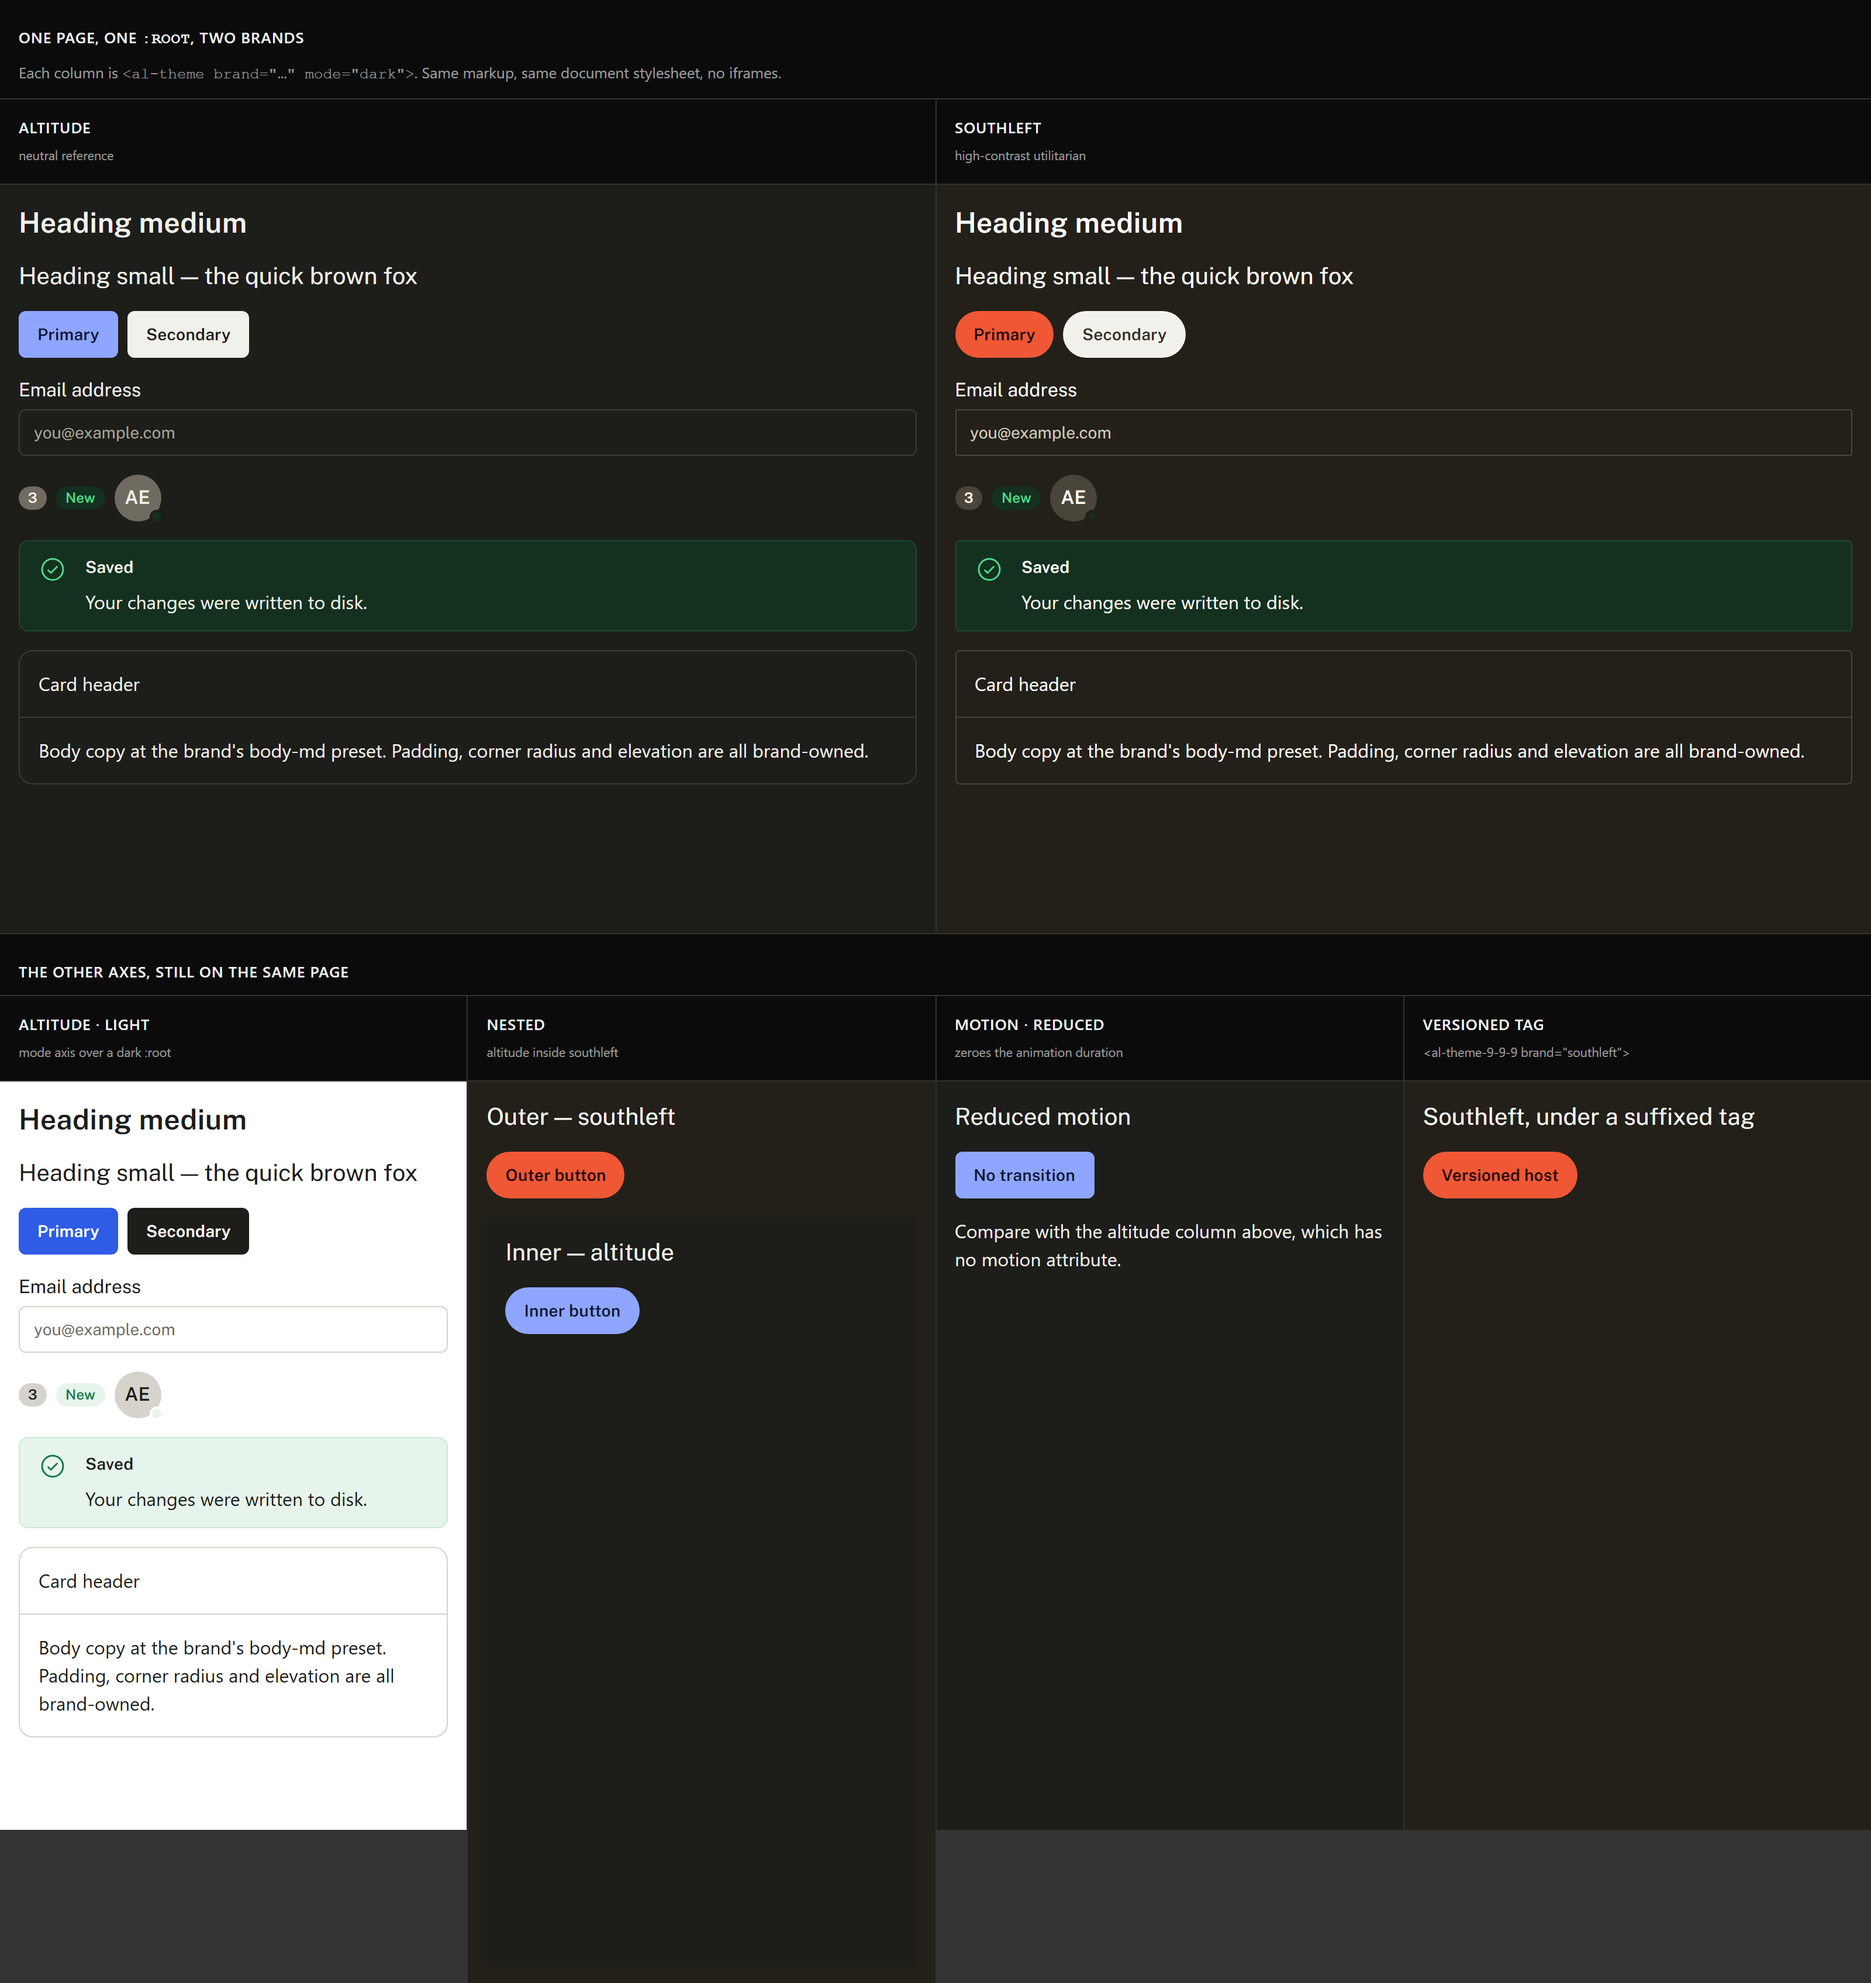
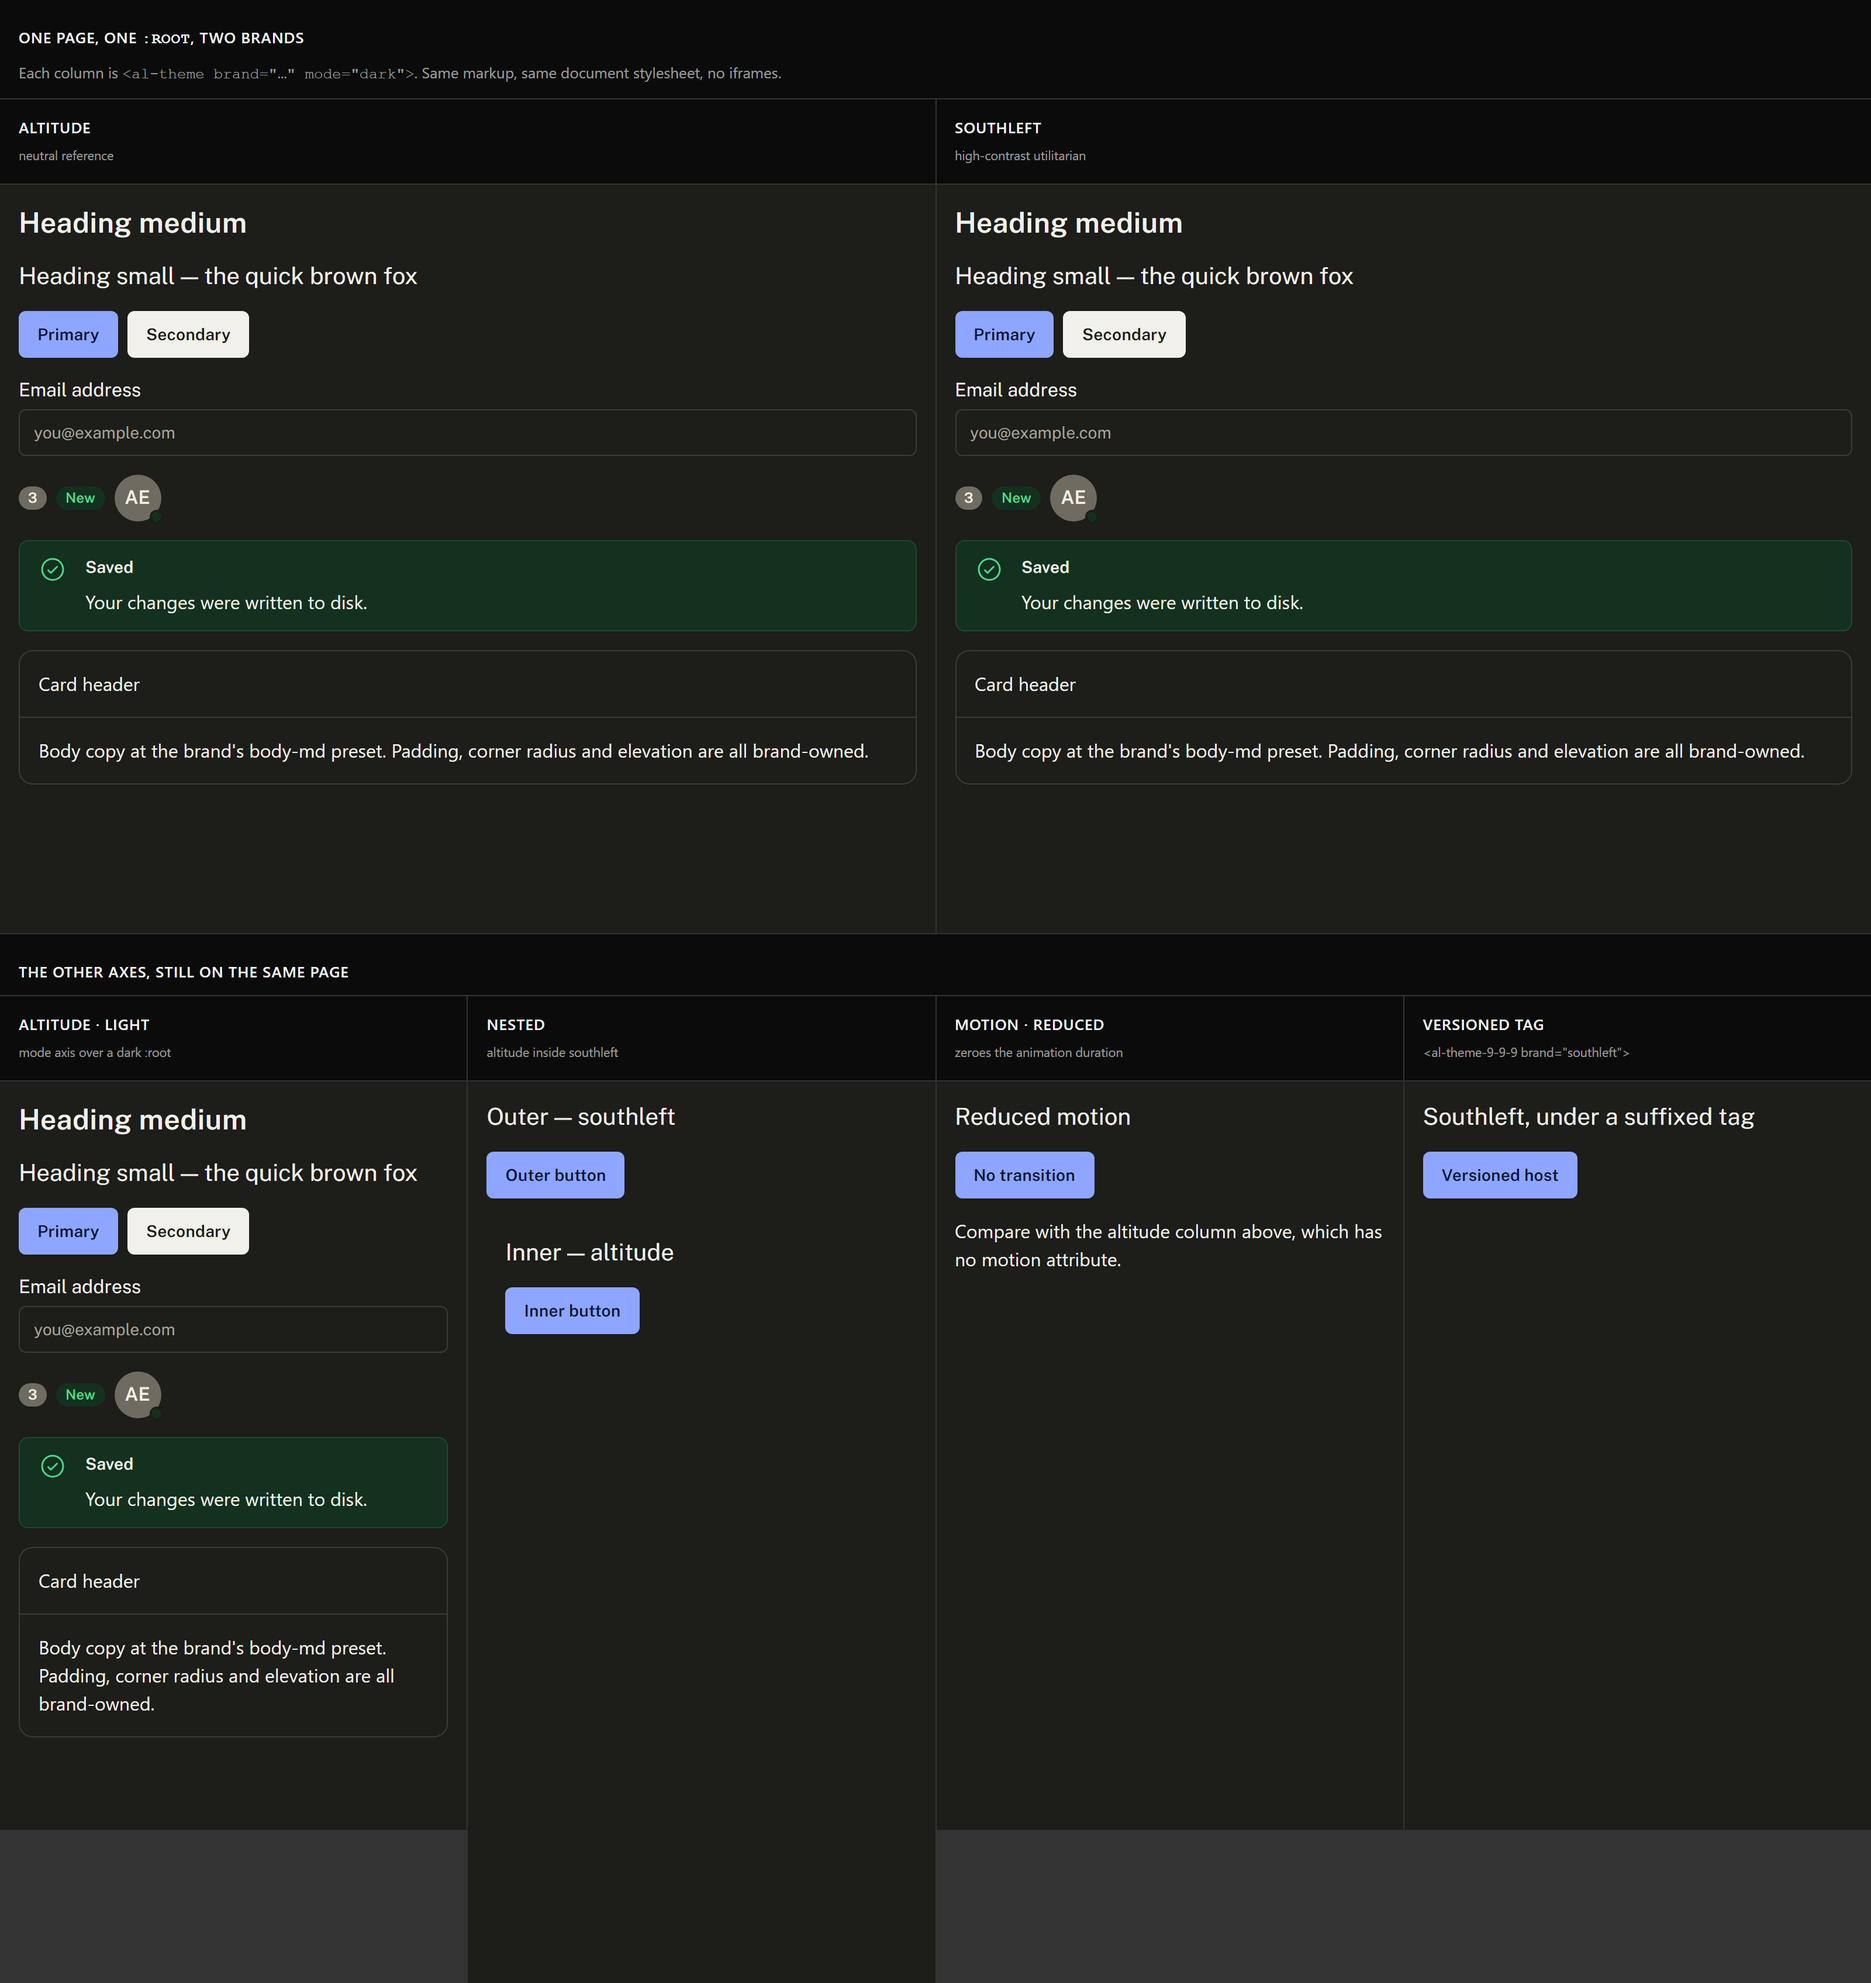
WIP feat(theming): take the palette out of al-theme; migrate southleft off brand
NOT MERGEABLE YET. Two build-tier gates fail by design (they are about the
brand axis) and eight apps still need their bundle. Committed so the
proven part is not lost.

DONE AND VERIFIED IN A BROWSER

al-theme no longer carries a palette. It used to @use the generated
:host([brand]) / :host([mode]) partials, which put a design system's
colour, type and radius INSIDE the component — so a page could load a
system's own bundle and still render the default system, because
:host([mode='dark']) sat on the element and beat :root for everything
below it. That is exactly what my earlier probe measured: primary-400
instead of primary-500, IBM Plex instead of Public Sans.

`brand` is gone from the component. `mode` stays and is mirrored onto the
host as `data-al-mode` for the project bundle's blocks to match — a data
attribute rather than [mode] because the versioned registry renames the
TAG, and because a page should be able to set a mode on <html> with no
component at all.

Project bundles gained `[data-al-project='<id>']` beside `:root`. That is
what keeps two design systems able to share one document, which the brand
axis provided and dropping it would otherwise have cost.

apps/southleft is migrated and measured: no brand attribute anywhere,
primary-500 #f05735, role-action 999px, background #232019 dark /
#fdfcfa light, and the ink/paper toggle still flips both the token values
and data-al-mode.

A capability we did not have before: setting data-al-mode on <html> now
[…]

diff --git a/libs/al-web-components/components/theme/theme.ts b/libs/al-web-components/components/theme/theme.ts
@@ -27,9 +27,15 @@
 //   shape=default|sharp|pill — corner-radius axis: repoints the
 //     `theme.border.radius.role.*` tokens (spec 2026-08-20-token-axes-expansion).
 //
-// Orthogonal axes: `brand` sets a LOOK, `shape`/`motion` set a FEEL. A
-// "recipe" is the combination — see `.altitude/AXES.md` — never a single
-// attribute flip, and never a per-brand shape/motion file.
+// Orthogonal axes: `shape`/`motion` set a FEEL, `density`/`contrast` set a FIT.
+// A "recipe" is the combination — see `.altitude/AXES.md` — never a single
+// attribute flip.
+//
+// There is no `brand` axis. A design system's LOOK is the token bundle the page
+// loads, one file per system, exactly as a Figma file is one system. This
+// component no longer carries a palette at all: it mirrors `mode` onto the host
+// for the bundle's `[data-al-mode]` blocks to match, and owns only the axes that
+// are genuinely axes rather than a second set of values.
 
 import { html, css, unsafeCSS } from 'lit';
 import { property } from 'lit/decorators.js';
@@ -43,9 +49,22 @@ import styles from './theme.scss';
 export class ALTheme extends ALElement {
   static el = 'al-theme';
 
-  /** Brand identifier. Currently shipped: 'altitude' | 'southleft'. */
-  @property() accessor brand: 'altitude' | 'southleft' = 'altitude';
-  /** Color mode. */
+  /**
+   * Color mode.
+   *
+   * The VALUES no longer live in this component. They live in the design
+   * system's own stylesheet (`@southleft/al-web-components/project/<id>.css`),
+   * which carries `:root` for the default mode and `[data-al-mode='…']` for the
+   * others — the same shape Figma uses, where one collection holds Light and
+   * Dark as two modes of one system.
+   *
+   * This property is mirrored onto the host as `data-al-mode` so that stylesheet
+   * matches. A data attribute rather than reusing `[mode]` directly, for two
+   * reasons: the versioned registry renames the TAG (`al-theme-1-2-3`), so a
+   * tag-qualified selector would stop matching; and a bare `[mode='light']` in a
+   * global stylesheet would match unrelated elements. `data-al-mode` also means
+   * a page can set a mode on `<html>` or any subtree with no component at all.
+   */
   @property() accessor mode: 'light' | 'dark' = 'light';
   /** Density axis. */
   @property() accessor density: 'compact' | 'cozy' | 'comfortable' = 'comfortable';
@@ -69,6 +88,19 @@ export class ALTheme extends ALElement {
    * identity still shows through until `sharp`/`pill` overrides it.
    */
   @property() accessor shape: 'default' | 'sharp' | 'pill' | undefined;
+
+  /**
+   * Mirror `mode` onto the host so the project stylesheet's
+   * `[data-al-mode='…']` block matches this element. Custom properties set
+   * there inherit through the shadow boundary into every component below,
+   * which is what makes a SUBTREE themeable without the palette living here.
+   */
+  updated(changed: Map<string, unknown>) {
+    super.updated(changed as never);
+    if (changed.has('mode') || !this.hasAttribute('data-al-mode')) {
+      this.setAttribute('data-al-mode', this.mode);
+    }
+  }
 
   static get styles() {
     return [

diff --git a/libs/al-web-components/components/theme/theme.scss b/libs/al-web-components/components/theme/theme.scss
@@ -1,16 +1,20 @@
-// Generated scoped token blocks for the `brand` and `mode` axes.
+// NO PALETTE LIVES HERE.
 //
-// `styles/dist-v5/scss/host/` is written by `styles/tokens-config.v5.mjs`
-// (see the "scoped `:host` emission" comment there for why the blocks are
-// deltas, why brand blocks are split, and the specificity arithmetic). It is a
-// GITIGNORED BUILD ARTIFACT, so this `@use` — like `styles/main.scss:7` — only
-// resolves after `pnpm --filter @southleft/al-web-components build:tokens`, which
-// `package.json`'s `build` script always runs first.
+// This file used to `@use` the generated `:host([brand])` / `:host([mode])`
+// partials, which put a design system's colour, type and radius values inside
+// the component. Two consequences, both measured:
 //
-// `dist-v5/` and not the legacy `dist/` mirror: these partials are a new
-// artifact with no legacy import path, and `scripts/copy-tokens-to-legacy-dist.js`
-// deliberately skips them so they are not re-shipped as dead CSS.
-@use '../../styles/dist-v5/scss/host';
+//   * a page could load a system's own token bundle and STILL render the
+//     default system's palette, because `:host([mode='dark'])` sat on the
+//     element and beat `:root` for everything inside it; and
+//   * `@lit-labs/ssr` serialized all of it into every host's DSD template
+//     (~19.6KB each, .altitude/SSR.md).
+//
+// The values now live in the design system's own stylesheet — one file per
+// system, `:root` plus `[data-al-mode='…']` — which is how the Figma side has
+// always modelled it. This component mirrors `mode` onto its host for those
+// blocks to match (theme.ts, `updated()`), and keeps only the axes below, which
+// are genuine axes rather than a second set of values.
 
 @layer al.theme {
   /* T4.2 — base host. Token override values are applied via attribute
